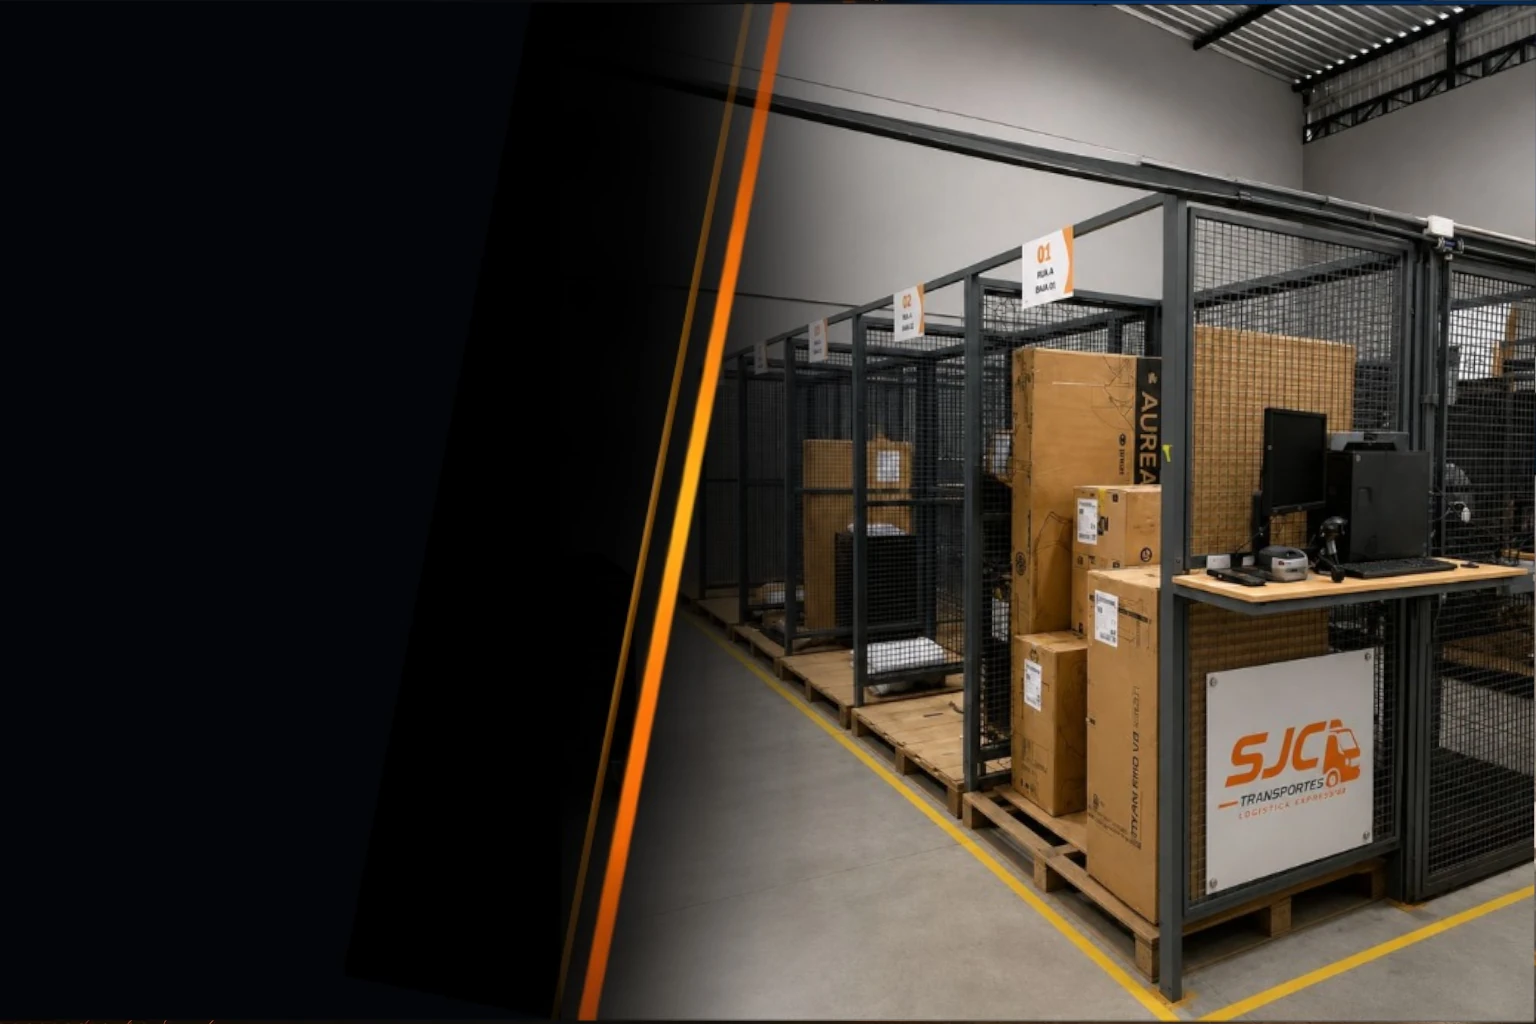
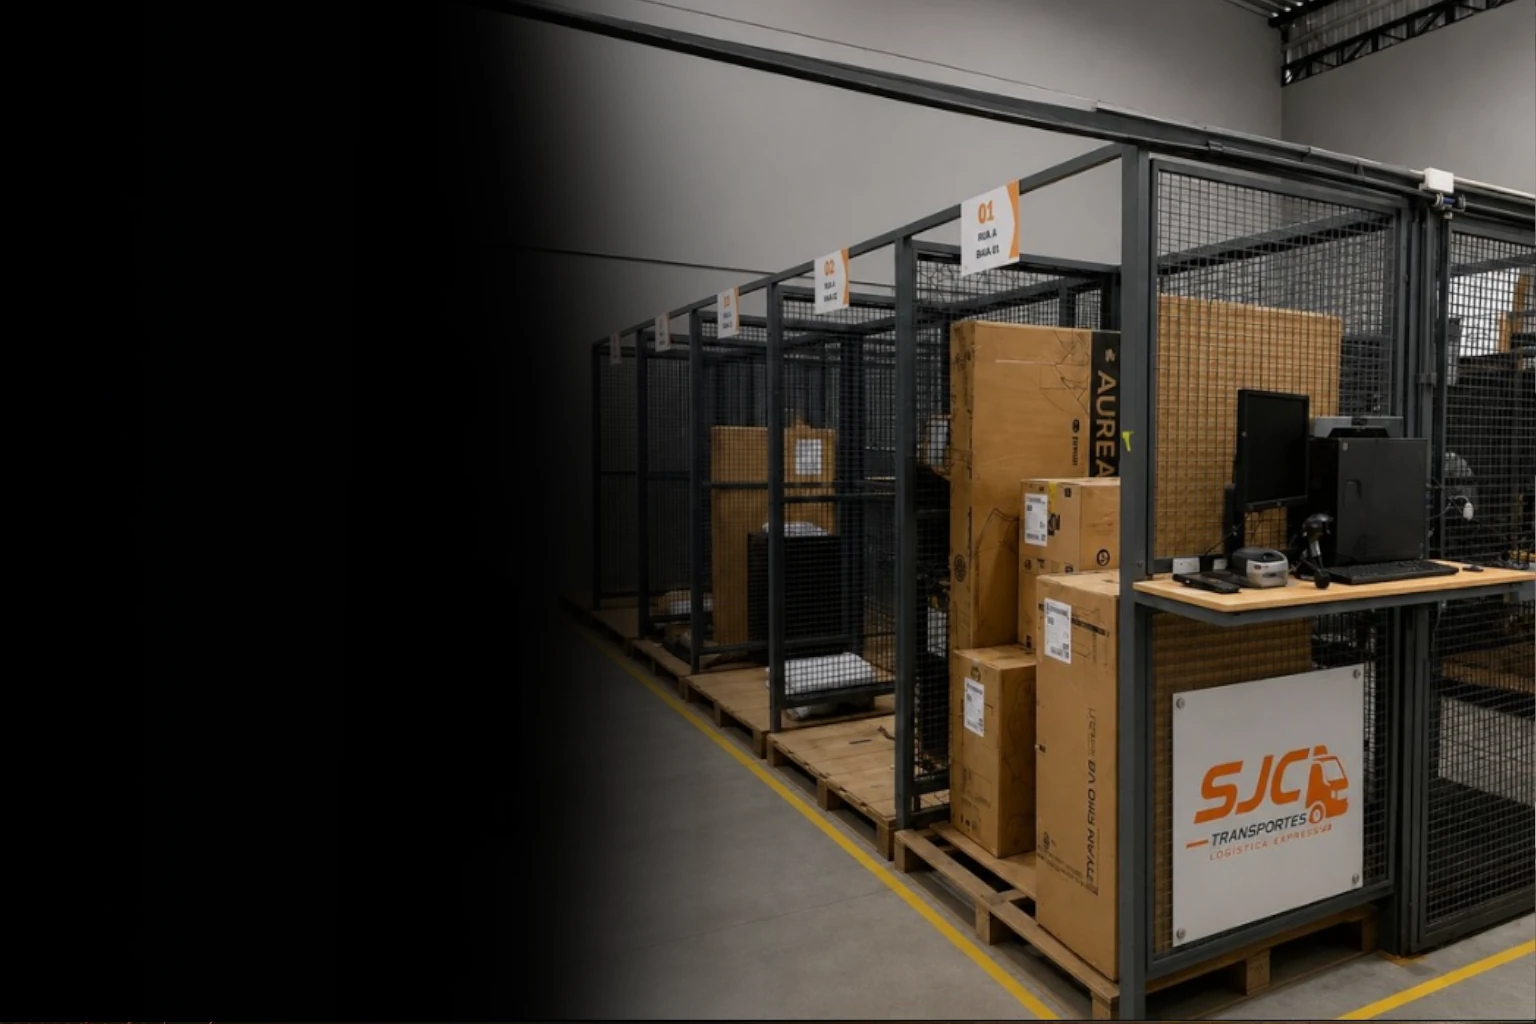
update images
atualizamos as imagens a pedido d cliente

diff --git a/style/index.css b/style/index.css
@@ -841,7 +841,7 @@ footer {
 }
 
 
-.indicador-card.destaque {
+.indicador-card {
 
     border: 2px solid #ff5a1f;
 
